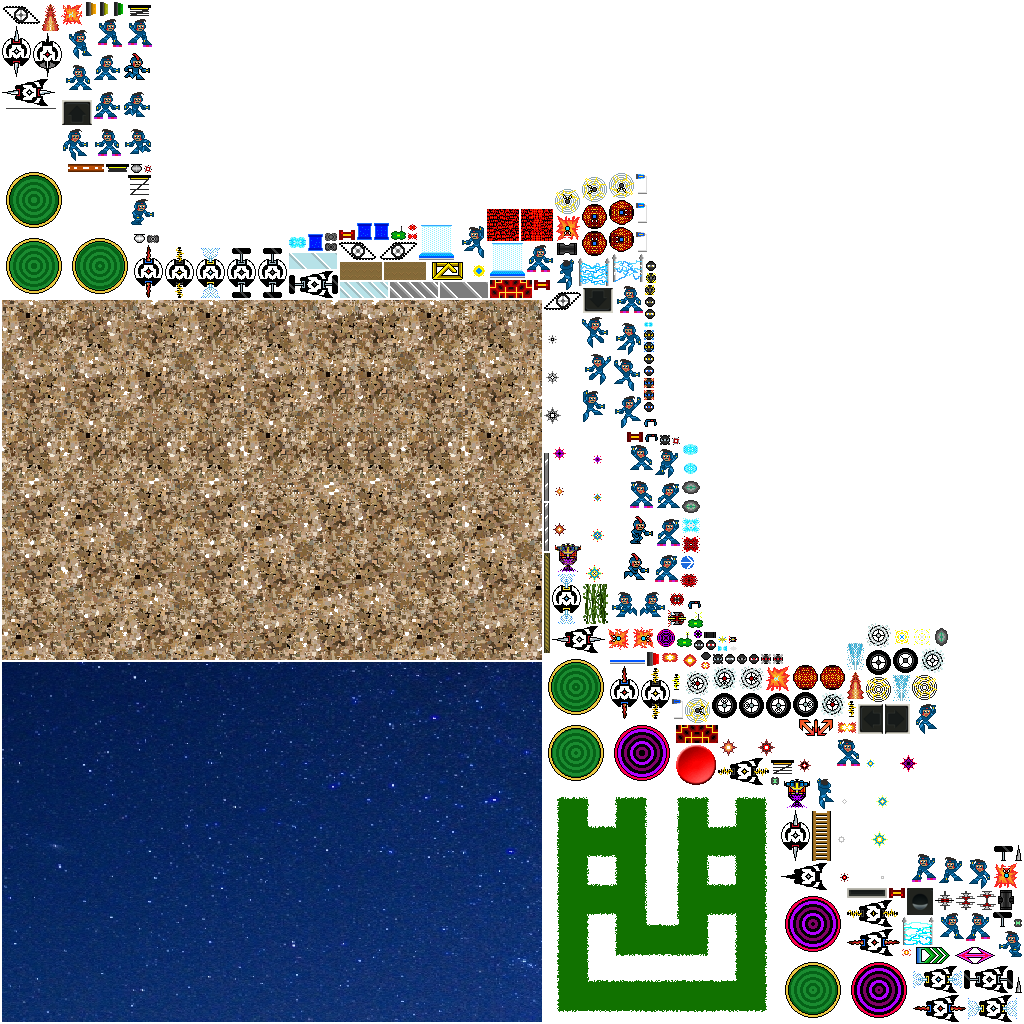
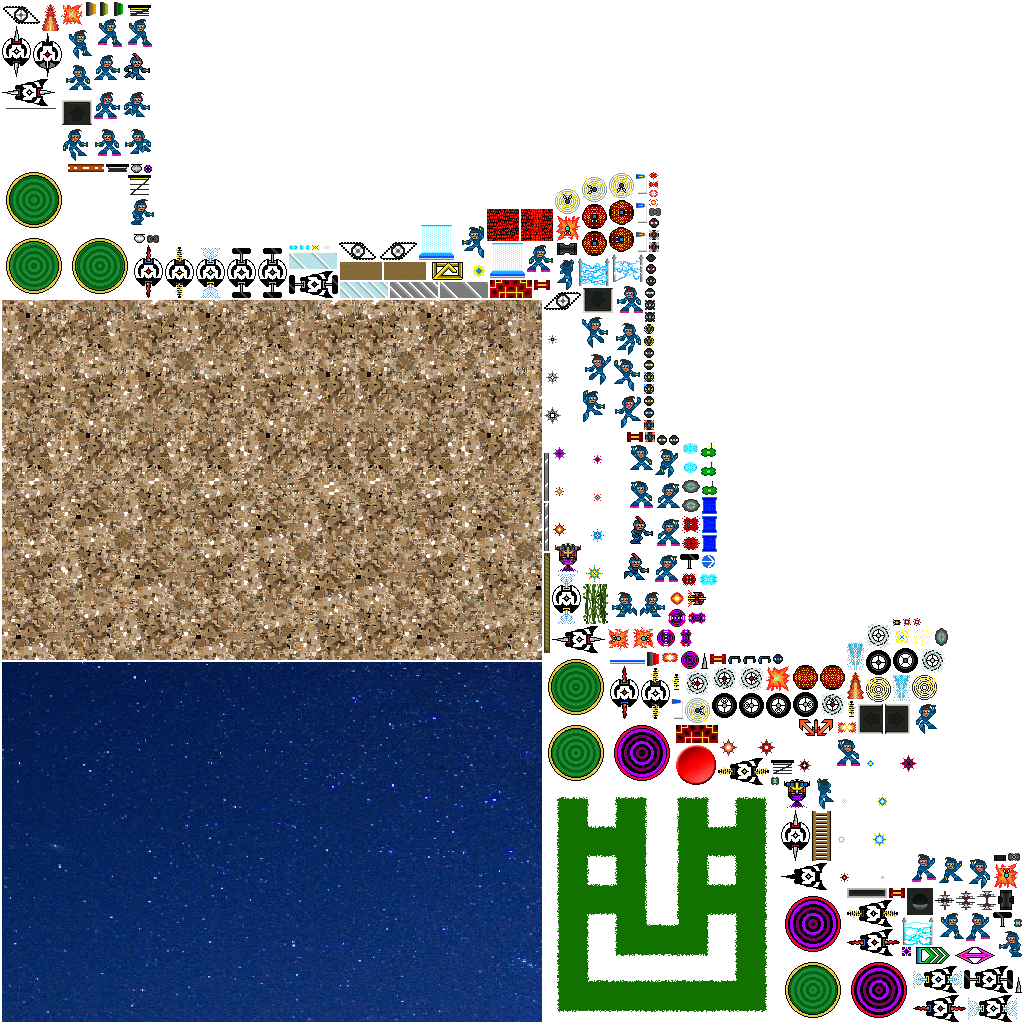
added antimatter ammo sprites

diff --git a/core/src/com/udacity/gamedev/gigagal/util/Assets.java b/core/src/com/udacity/gamedev/gigagal/util/Assets.java
@@ -449,7 +449,6 @@ public final class Assets implements AssetErrorListener {
             nativeBlastRegions.add(atlas.findRegion(Constants.BLAST_NATIVE_SPRITE_1));
             nativeBlastRegions.add(atlas.findRegion(Constants.BLAST_NATIVE_SPRITE_2));
             nativeBlastRegions.add(atlas.findRegion(Constants.BLAST_NATIVE_SPRITE_3));
-            nativeBlastRegions.add(atlas.findRegion(Constants.BLAST_NATIVE_SPRITE_4));
             nativeBlast = new Animation(Constants.SHOT_FRAME_DURATION, nativeBlastRegions, PlayMode.LOOP_PINGPONG);
             
             Array<AtlasRegion> oreShotRegions = new Array<AtlasRegion>();
@@ -509,12 +508,15 @@ public final class Assets implements AssetErrorListener {
             plasmaBlast = new Animation(Constants.SHOT_FRAME_DURATION, plasmaBlastRegions, PlayMode.LOOP_PINGPONG);
             
             Array<AtlasRegion> antimatterShotRegions = new Array<AtlasRegion>();
-            antimatterShotRegions.add(atlas.findRegion(Constants.SHOT_ANTIMATTER_SPRITE));
+            antimatterShotRegions.add(atlas.findRegion(Constants.SHOT_ANTIMATTER_SPRITE_1));
+            antimatterShotRegions.add(atlas.findRegion(Constants.SHOT_ANTIMATTER_SPRITE_2));
             antimatterShot = new Animation(Constants.SHOT_FRAME_DURATION, antimatterShotRegions, PlayMode.LOOP);
 
             Array<AtlasRegion> antimatterBlastRegions = new Array<AtlasRegion>();
-            antimatterBlastRegions.add(atlas.findRegion(Constants.BLAST_ANTIMATTER_SPRITE));
-            antimatterBlast = new Animation(Constants.SHOT_FRAME_DURATION, antimatterBlastRegions, PlayMode.LOOP);
+            antimatterBlastRegions.add(atlas.findRegion(Constants.BLAST_ANTIMATTER_SPRITE_1));
+            antimatterBlastRegions.add(atlas.findRegion(Constants.BLAST_ANTIMATTER_SPRITE_2));
+            antimatterBlastRegions.add(atlas.findRegion(Constants.BLAST_ANTIMATTER_SPRITE_3));
+            antimatterBlast = new Animation(Constants.SHOT_FRAME_DURATION, antimatterBlastRegions, PlayMode.LOOP_PINGPONG);
             
             Array<AtlasRegion> hybridShotRegions = new Array<AtlasRegion>();
             hybridShotRegions.add(atlas.findRegion(Constants.SHOT_HYBRID_SPRITE));

diff --git a/core/src/com/udacity/gamedev/gigagal/util/Constants.java b/core/src/com/udacity/gamedev/gigagal/util/Constants.java
@@ -525,7 +525,6 @@ public final class Constants {
     public static final String BLAST_NATIVE_SPRITE_1 = "ammo-blast-native-1";
     public static final String BLAST_NATIVE_SPRITE_2 = "ammo-blast-native-2";
     public static final String BLAST_NATIVE_SPRITE_3 = "ammo-blast-native-3";
-    public static final String BLAST_NATIVE_SPRITE_4 = "ammo-blast-native-4";
     public static final String SHOT_GAS_SPRITE_1 = "ammo-shot-gas-1";
     public static final String SHOT_GAS_SPRITE_2 = "ammo-shot-gas-2";
     public static final String BLAST_GAS_SPRITE_1 = "ammo-blast-gas-1";
@@ -551,8 +550,11 @@ public final class Constants {
     public static final String BLAST_SOLID_SPRITE_1 = "ammo-blast-solid-1";
     public static final String BLAST_SOLID_SPRITE_2 = "ammo-blast-solid-2";
     public static final String BLAST_SOLID_SPRITE_3 = "ammo-blast-solid-3";
-    public static final String SHOT_ANTIMATTER_SPRITE = "ammo-shot-psychic";
-    public static final String BLAST_ANTIMATTER_SPRITE = "ammo-blast-psychic";
+    public static final String SHOT_ANTIMATTER_SPRITE_1 = "ammo-shot-psychic-1";
+    public static final String SHOT_ANTIMATTER_SPRITE_2 = "ammo-shot-psychic-2";
+    public static final String BLAST_ANTIMATTER_SPRITE_1 = "ammo-blast-psychic-1";
+    public static final String BLAST_ANTIMATTER_SPRITE_2 = "ammo-blast-psychic-2";
+    public static final String BLAST_ANTIMATTER_SPRITE_3 = "ammo-blast-psychic-3";
     public static final String SHOT_HYBRID_SPRITE = "ammo-shot-hybrid";
     public static final String BLAST_HYBRID_SPRITE = "ammo-blast-hybrid";
 

diff --git a/core/src/com/udacity/gamedev/gigagal/util/Enums.java b/core/src/com/udacity/gamedev/gigagal/util/Enums.java
@@ -83,7 +83,7 @@ public final class Enums {
         NUCLEAR { @Override public final Color color() { return Color.NAVY; } },
         THERMAL { @Override public final Color color() { return Color.DARK_GRAY; } },
         GRAVITATIONAL { @Override public final Color color() { return Color.FIREBRICK; } },
-        MYSTERIOUS { @Override public final Color color() { return Color.CLEAR; } },
+        MYSTERIOUS { @Override public final Color color() { return Color.BLACK; } },
 
         FINAL { @Override public final Color color() { return Color.MAROON; } };
 
